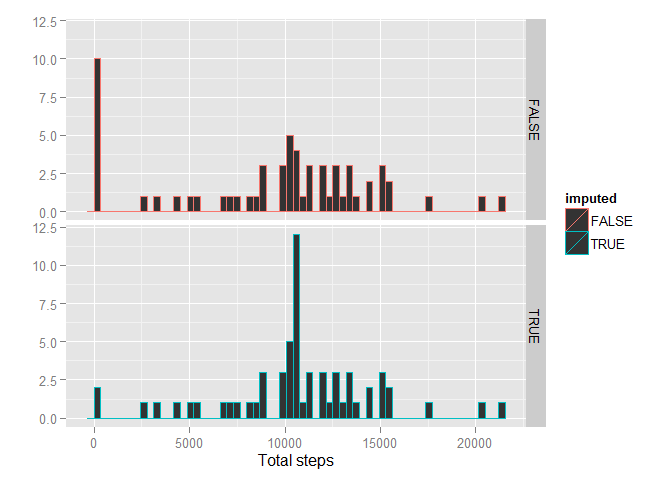
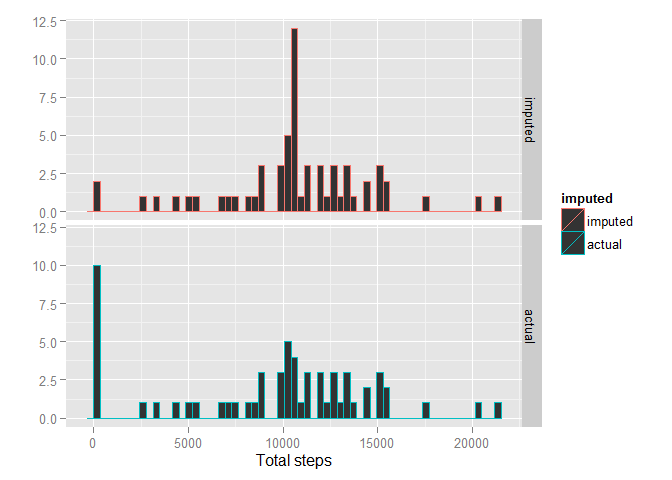
fourth question

diff --git a/PA1_template.html b/PA1_template.html
@@ -66,7 +66,8 @@ img {
 
 <pre class="r"><code># Trying to load dependencies
 library(data.table)
-library(ggplot2)</code></pre>
+library(ggplot2)
+library(chron)</code></pre>
 <div id="loading-and-preprocessing-the-data" class="section level2">
 <h2>Loading and preprocessing the data</h2>
 <pre class="r"><code># Load activities
@@ -117,8 +118,8 @@ print(median.total.steps.per.day)</code></pre>
 <p>The 5-minute interval (x-axis) and the average number of steps taken, averaged across all days (y-axis)</p>
 <pre class="r"><code>avg.steps.number.per.interval &lt;- activities.data.table[, mean(steps, na.rm = T), by = interval]
 with(list(d = avg.steps.number.per.interval), {
-    d[, total.steps := V1]
-    plot(total.steps ~ interval, data = d, type = &quot;l&quot;,
+    d[, avg.steps := V1]
+    plot(avg.steps ~ interval, data = d, type = &quot;l&quot;,
          main = &quot;Average number of steps per interval (avg-ed across all days)&quot;,
          xlab = &quot;5-minute interval&quot;, ylab = &quot;Avg. steps number&quot;)
 })</code></pre>
@@ -128,8 +129,8 @@ with(list(d = avg.steps.number.per.interval), {
     max.interval.row &lt;- d[which.max(d[[&quot;total.steps&quot;]])]
     print(max.interval.row)
 })</code></pre>
-<pre><code>##    interval       V1 total.steps
-## 1:      835 206.1698    206.1698</code></pre>
+<pre><code>## Empty data.table (0 rows) of 3 cols: interval,V1,avg.steps</code></pre>
+<pre><code>## NULL</code></pre>
 </div>
 <div id="imputing-missing-values" class="section level2">
 <h2>Imputing missing values</h2>
@@ -181,16 +182,23 @@ invisible({
         d[, V1 := NULL]
         d[, imputed := T]
     })
-    total.steps.per.day[, imputed := FALSE]
+    total.steps.per.day[, imputed := F]
 })
-with(list(d = rbind(total.steps.per.day.imputed, total.steps.per.day)), {
+total.steps.per.day.combined &lt;- rbind(total.steps.per.day.imputed,
+                                      total.steps.per.day)
+invisible({
+    total.steps.per.day.combined[, imputed := factor(imputed,
+                                                     levels = c(T, F),
+                                                     labels = c(&quot;imputed&quot;, &quot;actual&quot;))]
+})
+with(list(d = total.steps.per.day.combined), {
     g &lt;- ggplot(d, aes(total.steps, color = imputed)) +
         facet_grid(imputed ~ .) +
         geom_histogram(binwidth = max(total.steps.per.day$total.steps) / nrow(total.steps.per.day)) +
         labs(x = &quot;Total steps&quot;, y = &quot;&quot;)
     print(g)
 })</code></pre>
[2 lines of base64/hex data omitted]
 <p><em>Imputed data mean</em> of the total number of steps taken per day <em>compared</em> to actual value:</p>
 <pre class="r"><code>sprintf(&quot;Imputed vs Actual: %.1f vs %.1f&quot;, mean(total.steps.per.day.imputed[[&quot;total.steps&quot;]]),
         mean.total.steps.per.day)</code></pre>
@@ -204,6 +212,24 @@ with(list(d = rbind(total.steps.per.day.imputed, total.steps.per.day)), {
 </div>
 <div id="are-there-differences-in-activity-patterns-between-weekdays-and-weekends" class="section level2">
 <h2>Are there differences in activity patterns between weekdays and weekends?</h2>
+<pre class="r"><code>invisible({
+    activities.imputed[, day.type := factor(chron::is.weekend(date),
+                                          levels = c(T, F),
+                                          labels = c(&quot;weekend&quot;, &quot;weekday&quot;))]
+})</code></pre>
+<p>Panel plot containing a time series plot of the 5-minute interval (x-axis) and the average number of steps taken, averaged across all weekday days or weekend days (y-axis):</p>
+<pre class="r"><code>avg.steps.number.per.day.type.interval &lt;- activities.imputed[, mean(steps, na.rm = T),
+                                                             by = c(&quot;day.type&quot;, &quot;interval&quot;)]
+with(list(d = avg.steps.number.per.day.type.interval), {
+    d[, avg.steps := V1]; d[,V1 := NULL]
+    g &lt;- ggplot(d, aes(interval, avg.steps, color = day.type)) +
+        geom_line() +
+        facet_grid(day.type ~ .) +
+        labs(title = &quot;Average number of steps per interval (avg-ed across all days)&quot;) +
+        labs(x = &quot;5-minute interval&quot;, y = &quot;Avg. steps number&quot;)
+    print(g)
+})</code></pre>
[1 lines of base64/hex data omitted]
 </div>
 
 

diff --git a/PA1_template.md b/PA1_template.md
@@ -5,6 +5,7 @@
 # Trying to load dependencies
 library(data.table)
 library(ggplot2)
+library(chron)
 ```
 
 ## Loading and preprocessing the data
@@ -87,8 +88,8 @@ The 5-minute interval (x-axis) and the average number of steps taken, averaged a
 ```r
 avg.steps.number.per.interval <- activities.data.table[, mean(steps, na.rm = T), by = interval]
 with(list(d = avg.steps.number.per.interval), {
-    d[, total.steps := V1]
-    plot(total.steps ~ interval, data = d, type = "l",
+    d[, avg.steps := V1]
+    plot(avg.steps ~ interval, data = d, type = "l",
          main = "Average number of steps per interval (avg-ed across all days)",
          xlab = "5-minute interval", ylab = "Avg. steps number")
 })
@@ -108,8 +109,11 @@ with(list(d = avg.steps.number.per.interval), {
 ```
 
 ```
-##    interval       V1 total.steps
-## 1:      835 206.1698    206.1698
+## Empty data.table (0 rows) of 3 cols: interval,V1,avg.steps
+```
+
+```
+## NULL
 ```
 
 ## Imputing missing values
@@ -206,9 +210,16 @@ invisible({
         d[, V1 := NULL]
         d[, imputed := T]
     })
-    total.steps.per.day[, imputed := FALSE]
+    total.steps.per.day[, imputed := F]
 })
-with(list(d = rbind(total.steps.per.day.imputed, total.steps.per.day)), {
+total.steps.per.day.combined <- rbind(total.steps.per.day.imputed,
+                                      total.steps.per.day)
+invisible({
+    total.steps.per.day.combined[, imputed := factor(imputed,
+                                                     levels = c(T, F),
+                                                     labels = c("imputed", "actual"))]
+})
+with(list(d = total.steps.per.day.combined), {
     g <- ggplot(d, aes(total.steps, color = imputed)) +
         facet_grid(imputed ~ .) +
         geom_histogram(binwidth = max(total.steps.per.day$total.steps) / nrow(total.steps.per.day)) +
@@ -248,3 +259,31 @@ sprintf("Imputed vs Actual: %.1f vs %.1f", median(total.steps.per.day.imputed[["
 The median has became equal to the new mean value.
 
 ## Are there differences in activity patterns between weekdays and weekends?
+
+
+```r
+invisible({
+    activities.imputed[, day.type := factor(chron::is.weekend(date),
+                                          levels = c(T, F),
+                                          labels = c("weekend", "weekday"))]
+})
+```
+
+Panel plot containing a time series plot of the 5-minute interval (x-axis) and the average number of steps taken, averaged across all weekday days or weekend days (y-axis):
+
+
+```r
+avg.steps.number.per.day.type.interval <- activities.imputed[, mean(steps, na.rm = T),
+                                                             by = c("day.type", "interval")]
+with(list(d = avg.steps.number.per.day.type.interval), {
+    d[, avg.steps := V1]; d[,V1 := NULL]
+    g <- ggplot(d, aes(interval, avg.steps, color = day.type)) +
+        geom_line() +
+        facet_grid(day.type ~ .) +
+        labs(title = "Average number of steps per interval (avg-ed across all days)") +
+        labs(x = "5-minute interval", y = "Avg. steps number")
+    print(g)
+})
+```
+
+![](PA1_template_files/figure-html/unnamed-chunk-17-1.png) 
